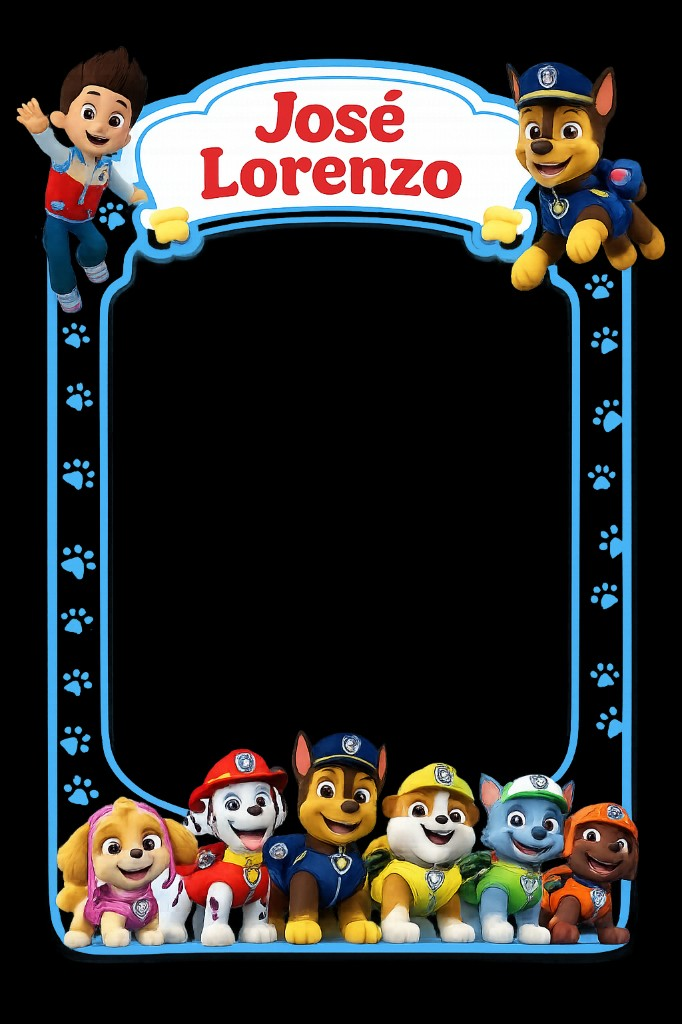
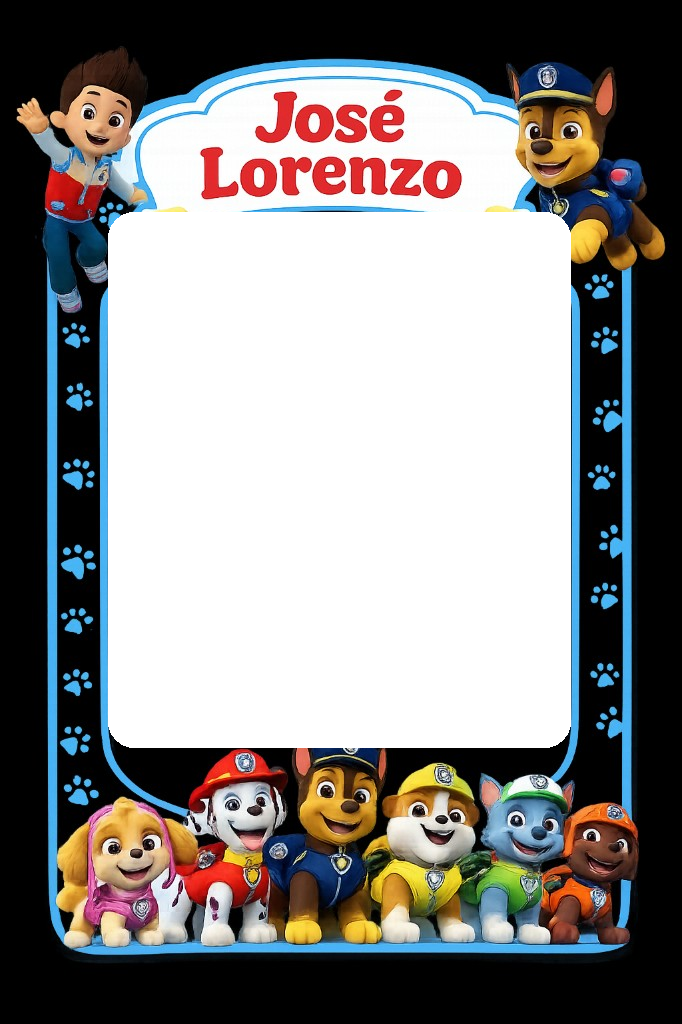
fix(foto): remove mascara SVG quebrada e usa PNG com buraco transparente

diff --git a/foto.html b/foto.html
@@ -83,15 +83,6 @@
       object-fit: fill;
       pointer-events: none;
       z-index: 2;
-      transform: translateZ(0);
-      -webkit-backface-visibility: hidden;
-      backface-visibility: hidden;
-      -webkit-mask-image: url("assets/moldura-mask.svg?v=1");
-      mask-image: url("assets/moldura-mask.svg?v=1");
-      -webkit-mask-size: 100% 100%;
-      mask-size: 100% 100%;
-      -webkit-mask-repeat: no-repeat;
-      mask-repeat: no-repeat;
     }
     .btn-flip {
       position: absolute;
@@ -252,7 +243,7 @@
       <img
         id="frame-overlay"
         class="frame-overlay"
-        src="assets/moldura-patrulha.png?v=4"
+        src="assets/moldura-patrulha.png?v=5"
         alt=""
         aria-hidden="true"
         decoding="async"
@@ -316,11 +307,10 @@
         }
       }
 
-      var FRAME_SRC = "assets/moldura-patrulha.png?v=4";
+      var FRAME_SRC = "assets/moldura-patrulha.png?v=5";
       var FRAME_W = 682;
       var FRAME_H = 1024;
       var VIDEO_FOCUS_Y = 0.42;
-      var FRAME_WINDOW = { l: 108, t: 212, r: 570, b: 747, rad: 26 };
       var frameReady = false;
       var frameImage = new Image();
       frameImage.onload = function () {
@@ -351,37 +341,11 @@
         ctx.restore();
       }
 
-      function roundRectPath(ctx, x, y, width, height, radius) {
-        var r = Math.min(radius, width / 2, height / 2);
-        ctx.beginPath();
-        ctx.moveTo(x + r, y);
-        ctx.lineTo(x + width - r, y);
-        ctx.quadraticCurveTo(x + width, y, x + width, y + r);
-        ctx.lineTo(x + width, y + height - r);
-        ctx.quadraticCurveTo(x + width, y + height, x + width - r, y + height);
-        ctx.lineTo(x + r, y + height);
-        ctx.quadraticCurveTo(x, y + height, x, y + height - r);
-        ctx.lineTo(x, y + r);
-        ctx.quadraticCurveTo(x, y, x + r, y);
-        ctx.closePath();
-      }
-
-      function punchCameraWindow(ctx) {
-        var win = FRAME_WINDOW;
-        ctx.save();
-        ctx.globalCompositeOperation = "destination-out";
-        ctx.fillStyle = "#000";
-        roundRectPath(ctx, win.l, win.t, win.r - win.l, win.b - win.t, win.rad);
-        ctx.fill();
-        ctx.restore();
-      }
-
       function drawFrame(ctx, w, h) {
         if (!frameReady) return;
         ctx.imageSmoothingEnabled = true;
         ctx.imageSmoothingQuality = "high";
         ctx.drawImage(frameImage, 0, 0, w, h);
-        punchCameraWindow(ctx);
       }
 
       function capturePhoto() {

diff --git a/index.html b/index.html
@@ -850,7 +850,7 @@
     <section class="qr-section" aria-labelledby="qr-title">
       <h3 id="qr-title">📷 Foto da missão</h3>
       <p>Tire uma foto com a moldura da Patrulha Canina!</p>
-      <a class="btn-camera" id="qr-camera-link" href="foto.html?v=6">Abrir câmera temática</a>
+      <a class="btn-camera" id="qr-camera-link" href="foto.html?v=7">Abrir câmera temática</a>
     </section>
 
     <section class="mission" aria-label="Mensagem da turma">
@@ -953,7 +953,7 @@
 
       var cameraLink = document.getElementById("qr-camera-link");
       if (cameraLink) {
-        cameraLink.href = new URL("foto.html?v=6", window.location.href).href;
+        cameraLink.href = new URL("foto.html?v=7", window.location.href).href;
       }
 
       function hideOverlay() {
